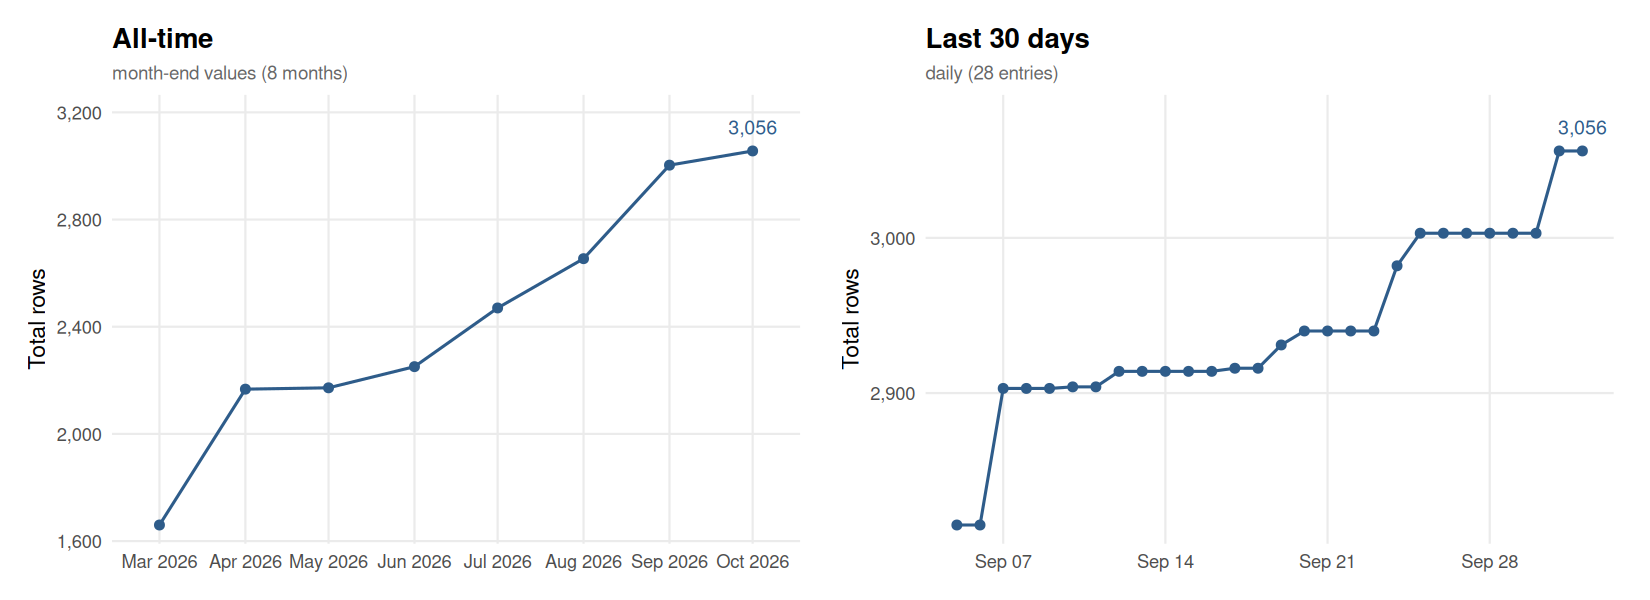
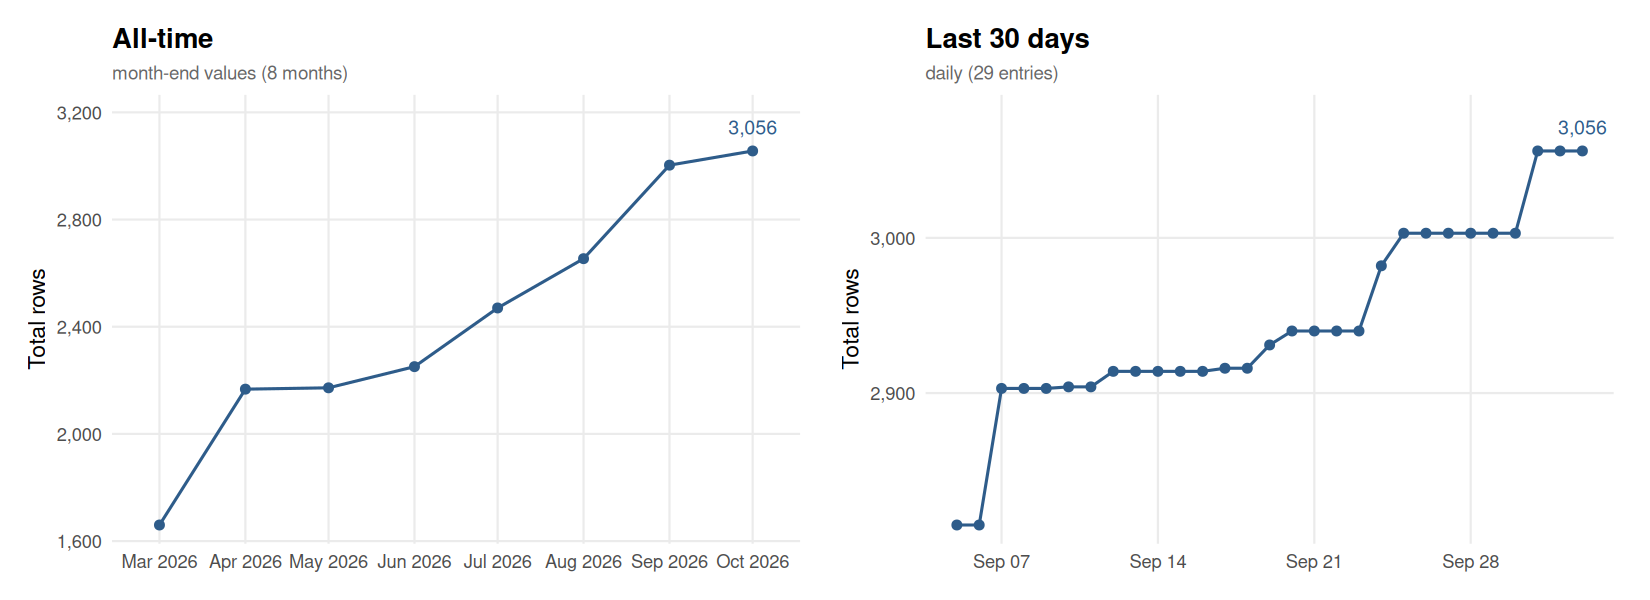
Update flora.csv [automated]

diff --git a/README.md b/README.md
@@ -438,14 +438,15 @@ For API issues:
 This chart is automatically updated after each pipeline run, showing the size of `output/flora.csv` over time.
 
 <!-- FLORA_UPDATE_LOG_START -->
-> **Latest (2026-10-02):** Total = 3,056 | Replications = 2,691 | Reproductions = 365
+> **Latest (2026-10-03):** Total = 3,056 | Replications = 2,691 | Reproductions = 365
 
 ![FLoRA dataset size over time](output/flora_history.png)
 
-<details><summary>Full history (190 entries)</summary>
+<details><summary>Full history (191 entries)</summary>
 
 | Date | Total | Replications | Reproductions |
 |------|------:|-------------:|--------------:|
+| 2026-10-03 | 3056 | 2691 | 365 |
 | 2026-10-02 | 3056 | 2691 | 365 |
 | 2026-10-01 | 3056 | 2691 | 365 |
 | 2026-09-30 | 3003 | 2639 | 364 |
